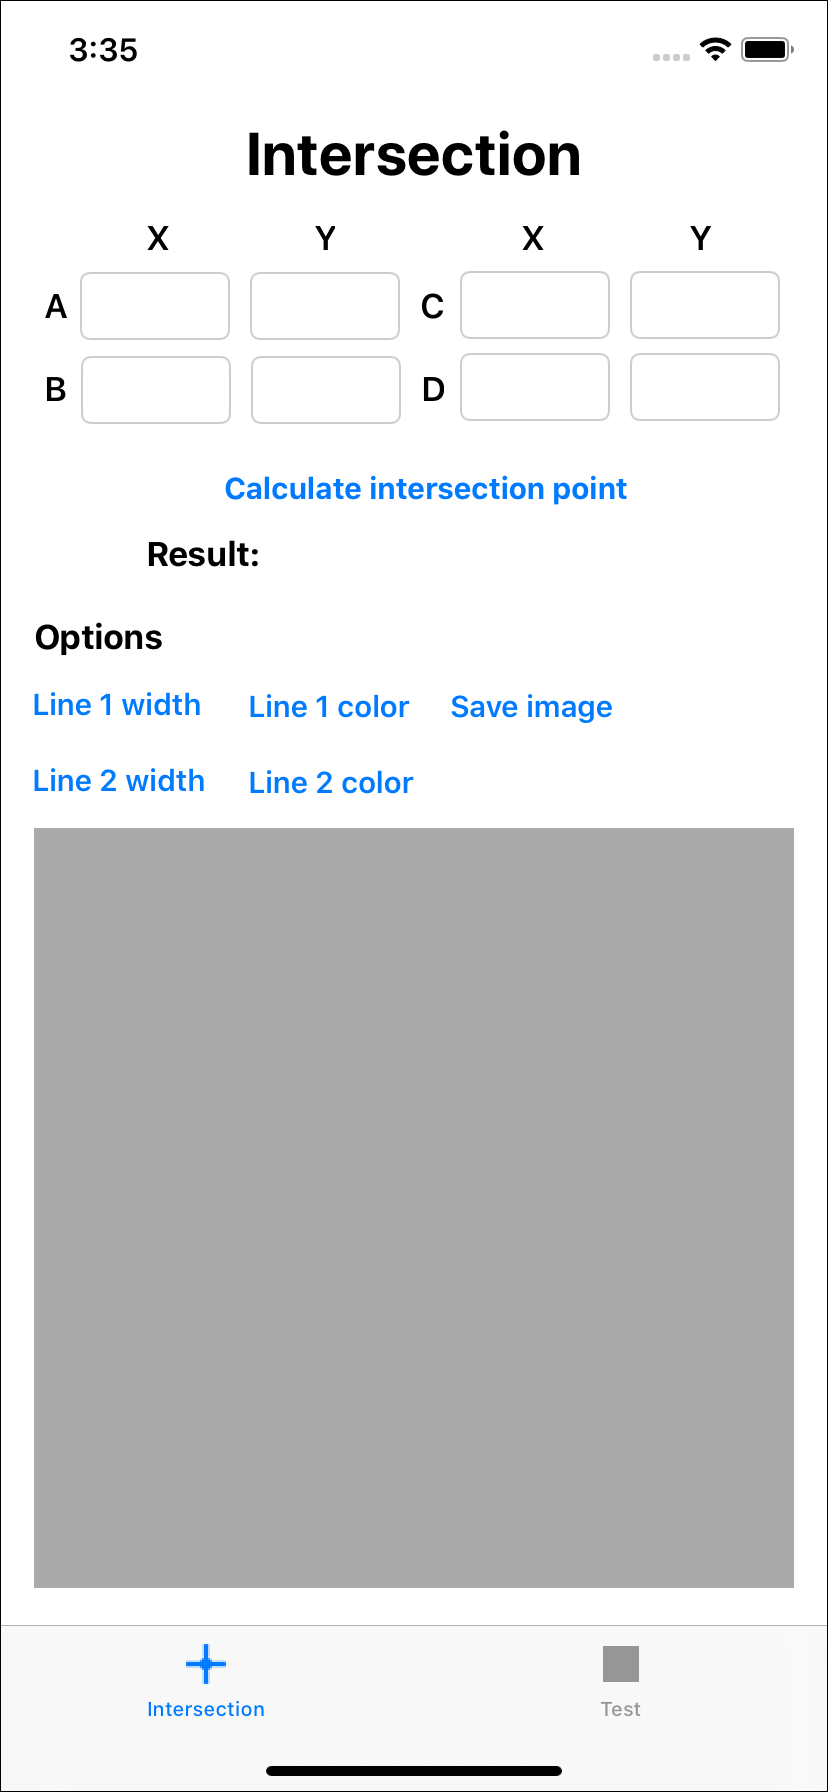
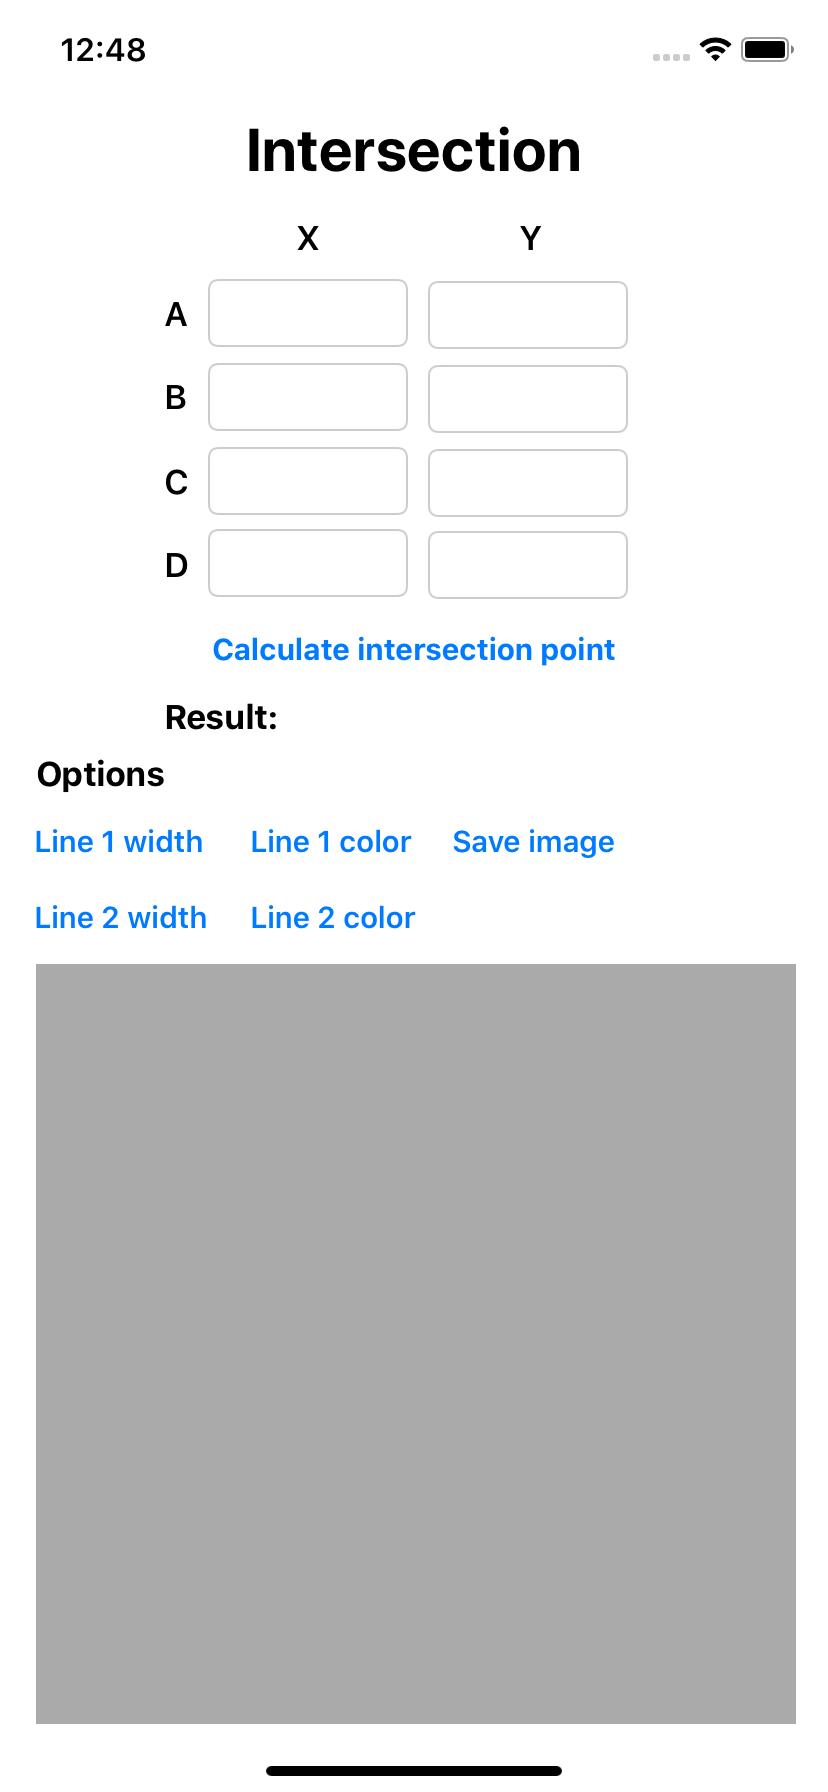
deleted unnecessary second view controller changed UI cleaned up the code

diff --git a/Intersection-app/FirstViewController.swift b/Intersection-app/FirstViewController.swift
@@ -9,6 +9,18 @@
 import UIKit
 
 class FirstViewController: UIViewController, UIImagePickerControllerDelegate {
+    @IBOutlet weak var xa: UITextField!
+    @IBOutlet weak var ya: UITextField!
+    @IBOutlet weak var bx: UITextField!
+    @IBOutlet weak var by: UITextField!
+    @IBOutlet weak var xc: UITextField!
+    @IBOutlet weak var yc: UITextField!
+    @IBOutlet weak var xd: UITextField!
+    @IBOutlet weak var yd: UITextField!
+    @IBOutlet weak var labelX: UILabel!
+    @IBOutlet weak var labelY: UILabel!
+    @IBOutlet weak var imgView: UIImageView!
+    
     var PointA = CGPoint(x: 0, y: 0)
     var PointB = CGPoint(x: 0, y: 0)
     var PointC = CGPoint(x: 0, y: 0)
@@ -24,21 +36,17 @@ class FirstViewController: UIViewController, UIImagePickerControllerDelegate {
         // Do any additional setup after loading the view.
         let tap = UITapGestureRecognizer(target: self.view, action: #selector(UIView.endEditing))
         view.addGestureRecognizer(tap)
-        imgView.image = UIImage(named: "image")
+        self.imgView.image = UIImage(named: "image")
     }
-    @IBOutlet weak var xa: UITextField!
-    @IBOutlet weak var ya: UITextField!
-    @IBOutlet weak var bx: UITextField!
-    @IBOutlet weak var by: UITextField!
-    @IBOutlet weak var xc: UITextField!
-    @IBOutlet weak var yc: UITextField!
-    @IBOutlet weak var xd: UITextField!
-    @IBOutlet weak var yd: UITextField!
-    @IBOutlet weak var labelX: UILabel!
-    @IBOutlet weak var labelY: UILabel!
+    
+    func clearImage() {
+        self.imgView.image = nil
+        self.imgView.layer.sublayers = nil
+        self.imgView.setNeedsDisplay()
+    }
+    
     @IBAction func compute(_ sender: UIButton) {
         if sender.tag == 9{
-            
             PointA.x = CGFloat((String(xa.text!) as NSString).doubleValue)
             PointA.y = CGFloat((String(ya.text!) as NSString).doubleValue)
             PointB.x = CGFloat((String(bx.text!) as NSString).doubleValue)
@@ -59,7 +67,6 @@ class FirstViewController: UIViewController, UIImagePickerControllerDelegate {
             let denominator: Double = (dXab * dYcd) - (dYab * dXcd)
             
             let t1 = nominator / denominator
-//            var t2 = ((dXac * dYab) - (dYac * dXab)) / ((dXab * dYcd) - (dYab * dXcd))
             
             let px = Double(PointA.x) + (t1 * dXab)
             let py = Double(PointA.y) + (t1 * dYab)
@@ -73,13 +80,13 @@ class FirstViewController: UIViewController, UIImagePickerControllerDelegate {
             PointP.x = CGFloat(px_r)
             PointP.y = CGFloat(py_r)
             
-            self.imgView.layer.sublayers = nil
-            
             let sPa: CGPoint = scalePoints(x: Float(PointA.x), y: Float(PointA.y))
             let sPb: CGPoint = scalePoints(x: Float(PointB.x), y: Float(PointB.y))
             let sPc: CGPoint = scalePoints(x: Float(PointC.x), y: Float(PointC.y))
             let sPd: CGPoint = scalePoints(x: Float(PointD.x), y: Float(PointD.y))
             let sPp: CGPoint = scalePoints(x: Float(PointP.x), y: Float(PointP.y))
+            
+            clearImage()
             
             addLine(fromPoint: sPa, toPoint: sPb, line: line1, linePath: linePath1)
             addLine(fromPoint: sPc, toPoint: sPd, line: line2, linePath: linePath2)
@@ -95,8 +102,8 @@ class FirstViewController: UIViewController, UIImagePickerControllerDelegate {
             addText(text: "P", pt: sPp)
         }
     }
-    @IBOutlet weak var imgView: UIImageView!
-    func addLine(fromPoint start: CGPoint, toPoint end: CGPoint, line: CAShapeLayer, linePath: UIBezierPath){
+    
+    func addLine(fromPoint start: CGPoint, toPoint end: CGPoint, line: CAShapeLayer, linePath: UIBezierPath) {
         linePath.move(to: start)
         linePath.addLine(to: end)
         line.path = linePath.cgPath
@@ -105,22 +112,24 @@ class FirstViewController: UIViewController, UIImagePickerControllerDelegate {
         line.lineJoin = CAShapeLayerLineJoin.round
         self.imgView.layer.addSublayer(line)
     }
-    func addPoint(pt: CGPoint){
+    
+    func addPoint(pt: CGPoint) {
         let circleLayer = CAShapeLayer()
         circleLayer.path = UIBezierPath(ovalIn: CGRect(x: pt.x-5, y: pt.y-5, width: 10, height: 10)).cgPath
         self.imgView.layer.addSublayer(circleLayer)
     }
-    func addText(text: String, pt: CGPoint){
+    
+    func addText(text: String, pt: CGPoint) {
         let frame = CGRect(x: pt.x - 7, y: pt.y + 10, width: 15, height: 15)
         let label = UILabel(frame: frame)
         label.textAlignment = .center
         label.font = UIFont(name: "San Francisco", size: 12)
         label.text = text
         label.textColor = .black
-        imgView.addSubview(label)
+        self.imgView.addSubview(label)
     }
-    func scalePoints(x: Float, y: Float) -> (CGPoint)
-    {
+    
+    func scalePoints(x: Float, y: Float) -> (CGPoint) {
         let canMaxX: Float = 330
         let canMaxY: Float = 330
         
@@ -141,6 +150,7 @@ class FirstViewController: UIViewController, UIImagePickerControllerDelegate {
         let sP = CGPoint(x: CGFloat(scaledX), y: CGFloat(scaledY))
         return sP
     }
+    
     @IBAction func saveImg(_ sender: UIButton) {
         guard let selectedImg = getImgFromVyuFnc() else {
             print("Image not found!")
@@ -148,6 +158,7 @@ class FirstViewController: UIViewController, UIImagePickerControllerDelegate {
         }
         UIImageWriteToSavedPhotosAlbum(selectedImg, self, #selector(image(_:didFinishSavingWithError:contextInfo:)), nil)
     }
+    
     @objc func image(_ image: UIImage, didFinishSavingWithError error: Error?, contextInfo: UnsafeRawPointer) {
         if let error = error {
             // we got back an error!
@@ -160,6 +171,7 @@ class FirstViewController: UIViewController, UIImagePickerControllerDelegate {
             present(ac, animated: true)
         }
     }
+    
     func getImgFromVyuFnc() -> UIImage?
     {
         UIGraphicsBeginImageContext(imgView.frame.size)
@@ -170,6 +182,7 @@ class FirstViewController: UIViewController, UIImagePickerControllerDelegate {
         UIGraphicsEndImageContext()
         return image!
     }
+    
     @IBAction func thicc(_ sender: UIButton) {
         switch line1.lineWidth{
         case 2:
@@ -180,6 +193,7 @@ class FirstViewController: UIViewController, UIImagePickerControllerDelegate {
             line1.lineWidth = 2
         }
     }
+    
     @IBAction func thicc2(_ sender: UIButton) {
         switch line2.lineWidth{
         case 2:
@@ -190,6 +204,7 @@ class FirstViewController: UIViewController, UIImagePickerControllerDelegate {
             line2.lineWidth = 2
         }
     }
+    
     @IBAction func color1(_ sender: UIButton) {
         switch line1.strokeColor{
         case UIColor.black.cgColor:
@@ -204,6 +219,7 @@ class FirstViewController: UIViewController, UIImagePickerControllerDelegate {
             line1.strokeColor = UIColor.black.cgColor
         }
     }
+    
     @IBAction func color2(_ sender: UIButton) {
         switch line2.strokeColor{
         case UIColor.black.cgColor:
